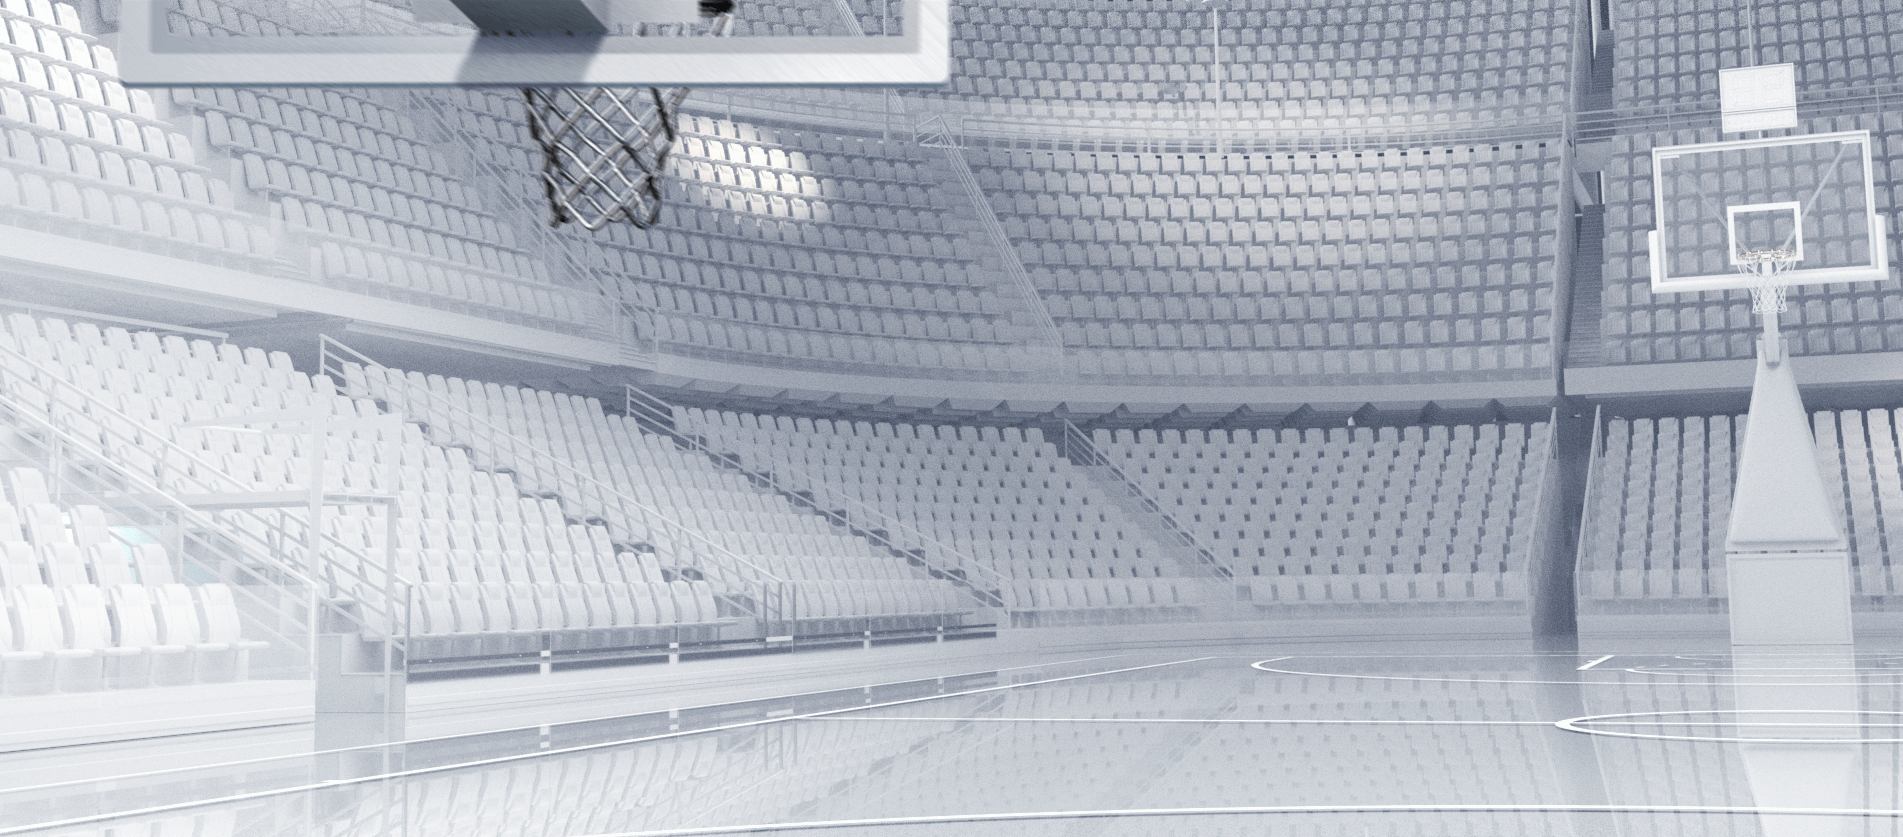
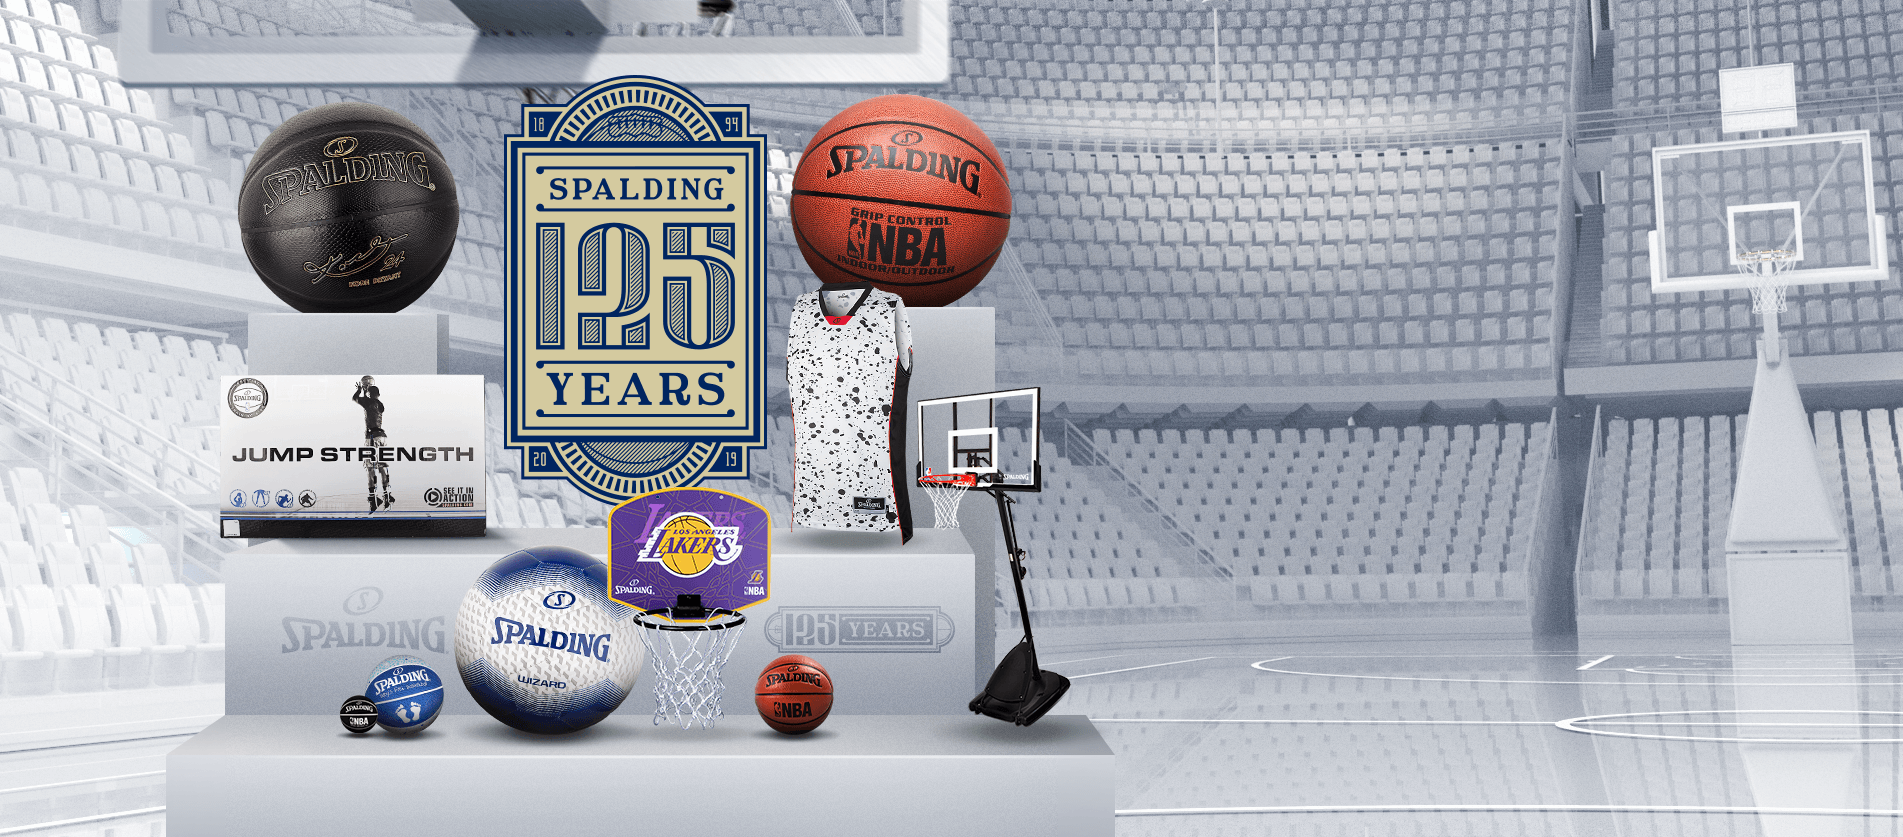
登录4/17-9

Changed region(s): [[0.062, 0.0932, 0.5891, 1.0]]

diff --git a/skin/frontend/default/spalding/css/spalding.css b/skin/frontend/default/spalding/css/spalding.css
@@ -820,8 +820,8 @@ ul.scarch_select_option li:hover{
 
 .spaldingLogin{
     position: relative;
-    top: 92px;
     background: url(../images2019/20141209004-1.png) center 0px no-repeat;
+    background-size: 100% 100%;
 }
 
 .spaldingLogin .loginBox{
@@ -830,10 +830,8 @@ ul.scarch_select_option li:hover{
     max-width: 1466px;
     margin: 0 auto;
     min-width: 1136px;
-    background: url(../images2019/img-product.png) left 73px no-repeat;
+    /*background: url(../images2019/img-product.png) left 73px no-repeat;*/
     /* margin-left: -72px; */
-    /* position: relative; */
-    /* z-index: 999999999; */
     /* background: url(../images2019/20141209004.png) left 212px no-repeat; */
     /* background-size: 50%; */
 }
@@ -1117,9 +1115,9 @@ input:-ms-input-placeholder{  /* Internet Explorer 10-11 */
 .loginBottom{
     font-size: 12px;
     line-height: 1.4em;
-    margin: 18px 0px 20px;
+    margin: 107px 0px 20px;
     position: absolute;
-    left: 352px;
+    left: 290px;
     /* float: right; */
 }
 
